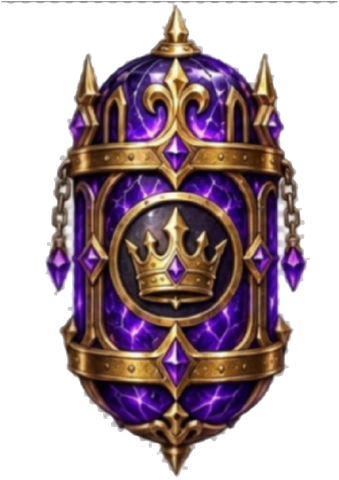
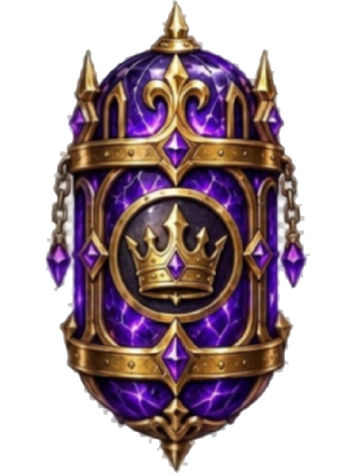
Сундуки без чёрного фона и меньше, рабочая ссылка в «!апка»
Команда «!апка»:
- ссылка больше не берётся из захардкоженного t.me/<старый_бот>/<short_name>;
  @username подставляется из get_me() при старте (плюс env BOT_USERNAME),
  short_name — из MINIAPP_SHORT_NAME (по умолчанию Auragame),
  полный override — MINIAPP_URL;
- в личке кнопка теперь web_app с адресом aura-api (WEBAPP_URL): Telegram
  сам открывает Mini App и передаёт initData, короткое имя не участвует,
  поэтому ссылка не может «сломаться»;
- вторая кнопка — прямая ссылка для пересылки другу; в группах (там
  web_app запрещён) остаётся только она, и она же печатается в тексте;
- в лог при старте пишется готовая ссылка, чтобы было видно, что уходит.

Сундуки (Mini App):
- chest_normal.jpg и chest_gold.jpg (чёрный прямоугольник) заменены на
  chest_normal.png / chest_gold.png с прозрачным фоном: фон вырезан по
  силуэту, тёмное дерево осталось непрозрачным, цвет не пережат;
- картинка уменьшена: max-height 170px, max-width 70% вместо 100%
  ширины карточки — сундук больше не занимает пол-экрана;
- обновлены ссылки в index.html (cache-busting ?v=2), style.css?v=aura-5,
  белый список корневых файлов в api.py.

Линия:
- у карточки «Уникальная капсула» сверху торчал серый обрезок линии
  (первые 4 строки PNG) — обрезан;
- пунктирная рамка у слота предмета в «Апгрейде» заменена на тонкую
  сплошную (это и была «линия» вокруг превью).

Попутно:
- у inv_emerald.png и inv_malachite.png был зашит чёрный фон (в инвентаре
[…]

diff --git a/miniapp/style.css b/miniapp/style.css
@@ -144,10 +144,11 @@ main { padding: 0 16px; }
 /* ================= СУНДУКИ ================= */
 .chest-container { display: flex; flex-direction: column; gap: 15px; }
 .chest-card { background: var(--card); padding: 16px; border-radius: 18px; text-align: center; border: 1px solid #333; }
-.chest-art { width: 100%; border-radius: 14px; overflow: hidden; margin-bottom: 12px; background: transparent; display: flex; align-items: center; justify-content: center; }
-/* contain + max-height: сундук нарисован с полями, обрезать его нельзя.
-   Фиксированные 165px по высоте резали картинку по бокам/сверху. */
-.chest-art img { width: 100%; height: auto; max-height: 200px; object-fit: contain; display: block; }
+.chest-art { width: 100%; border-radius: 14px; overflow: hidden; margin-bottom: 10px; background: transparent; display: flex; align-items: center; justify-content: center; }
+/* Сундуки теперь PNG с прозрачным фоном (чёрный прямоугольник убран),
+   поэтому картинку не растягиваем на всю карточку — она заметно меньше
+   и «плавает» на фоне карточки. contain обязателен: обрезать нельзя. */
+.chest-art img { width: auto; height: auto; max-width: 70%; max-height: 170px; object-fit: contain; display: block; filter: drop-shadow(0 6px 14px rgba(0, 0, 0, 0.55)); }
 .chest-card h3 { font-size: 18px; font-weight: 800; margin-bottom: 5px; }
 .chest-card p { font-size: 12px; color: var(--text-muted); margin-bottom: 15px; }
 .chest-card .action-btn { margin-bottom: 0; }
@@ -343,7 +344,7 @@ main { padding: 0 16px; }
 .up-panel-center { align-items: center; justify-content: flex-start; }
 
 /* --- левая панель --- */
-.up-slot { border-radius: 16px; border: 1px dashed rgba(59, 130, 246, 0.35); background: radial-gradient(circle at 50% 20%, rgba(59, 130, 246, 0.16), rgba(10, 15, 23, 0.75) 72%); padding: 18px 10px; text-align: center; }
+.up-slot { border-radius: 16px; border: 1px solid rgba(59, 130, 246, 0.22); background: radial-gradient(circle at 50% 20%, rgba(59, 130, 246, 0.16), rgba(10, 15, 23, 0.75) 72%); padding: 18px 10px; text-align: center; }
 .up-slot-icon { font-size: 42px; line-height: 1; filter: drop-shadow(0 0 16px rgba(59, 130, 246, 0.55)); }
 .up-slot-name { margin-top: 8px; font-size: 13px; font-weight: 800; color: #dbe7f7; }
 .up-slot-value { margin-top: 3px; font-size: 12px; font-weight: 900; color: #58a6ff; font-variant-numeric: tabular-nums; }

diff --git a/miniapp/index.html b/miniapp/index.html
@@ -4,7 +4,7 @@
     <meta charset="UTF-8">
     <meta name="viewport" content="width=device-width, initial-scale=1.0, user-scalable=no">
     <title>AURA GAME</title>
-    <link rel="stylesheet" href="style.css?v=aura-4">
+    <link rel="stylesheet" href="style.css?v=aura-5">
     <script src="https://telegram.org/js/telegram-web-app.js"></script>
 </head>
 <body>
@@ -116,13 +116,13 @@
             </div>
             <div class="chest-container" id="chest-buttons">
                 <div class="chest-card">
-                    <div class="chest-art"><img id="normal-chest-icon" src="chest_normal.jpg" alt="Обычный сундук" loading="lazy"></div>
+                    <div class="chest-art"><img id="normal-chest-icon" src="chest_normal.png?v=2" alt="Обычный сундук" loading="lazy"></div>
                     <h3>Обычный сундук</h3>
                     <p>Бесплатно, раз в 5 часов</p>
                     <button class="action-btn" id="normal-chest-btn" onclick="openChest('normal')">Открыть (Бесплатно)</button>
                 </div>
                 <div class="chest-card">
-                    <div class="chest-art"><img id="gold-chest-icon" src="chest_gold.jpg" alt="Золотой сундук" loading="lazy"></div>
+                    <div class="chest-art"><img id="gold-chest-icon" src="chest_gold.png?v=2" alt="Золотой сундук" loading="lazy"></div>
                     <h3>Золотой сундук</h3>
                     <p>Открывается золотым ключом 🔑</p>
                     <button class="action-btn" id="gold-chest-btn" onclick="openChest('gold')" style="background: #ffcc00; color: #000;">Открыть (Нужен ключ)</button>

diff --git a/bot.py b/bot.py
@@ -8,7 +8,7 @@ import json
 from types import SimpleNamespace
 from dotenv import load_dotenv
 from aiogram import Bot, Dispatcher, F, Router
-from aiogram.types import Message, CallbackQuery, InlineKeyboardMarkup, InlineKeyboardButton, FSInputFile
+from aiogram.types import Message, CallbackQuery, InlineKeyboardMarkup, InlineKeyboardButton, FSInputFile, WebAppInfo
 from aiogram.enums import ChatMemberStatus
 from aiogram.filters import StateFilter
 from aiogram.fsm.context import FSMContext
@@ -62,10 +62,32 @@ API_URL_CANDIDATES = [
 API_URL = (os.getenv("AURA_API_URL") or API_URL_CANDIDATES[0]).rstrip("/")
 # Именно этот адрес должен быть прописан в BotFather → Configure Mini App.
 WEBAPP_URL = os.getenv("AURA_WEBAPP_URL") or f"{API_URL}/miniapp/"
-# Внутри Telegram мини-аппка открывается прямой ссылкой t.me/<бот>/<short_name>:
-# по «голому» https-адресу WebView не передаёт initData и авторизация ломается.
-# short_name задаётся в BotFather → Configure Mini App, а сам URL там = WEBAPP_URL.
-MINIAPP_URL = os.getenv("MINIAPP_URL") or "https://t.me/Auragameplay_bot/Auragame"
+# Внутри Telegram мини-аппку открывают двумя способами:
+#   1) кнопкой с web_app (WebAppInfo) — работает в личке и не зависит от short_name;
+#   2) прямой ссылкой t.me/<бот>/<short_name> — нужна, чтобы переслать другу.
+# Внутри ссылки (2) имя бота пишется вручную и часто устаревает: бот переименован,
+# short_name в BotFather другой — и команда «апка» даёт «не рабочую ссылку».
+# Поэтому username берём у Telegram (get_me) при старте, а short_name — из env
+# MINIAPP_SHORT_NAME (по умолчанию Auragame, как в BotFather → Configure Mini App).
+MINIAPP_SHORT_NAME = (os.getenv("MINIAPP_SHORT_NAME") or "Auragame").strip().strip("/")
+BOT_USERNAME = (os.getenv("BOT_USERNAME") or "").strip().lstrip("@")
+# Явный override: если ссылку нужно жёстко зафиксировать.
+MINIAPP_URL = os.getenv("MINIAPP_URL") or ""
+
+
+def miniapp_direct_url() -> str:
+    """Прямая ссылка t.me/<бот>/<short_name> для пересылки друзьям.
+
+    Строится из НАСТОЯЩЕГО @username (его отдаёт Telegram), поэтому
+    переименование бота больше не ломает команду «апка».
+    """
+    override = (os.getenv("MINIAPP_URL") or MINIAPP_URL or "").strip()
+    if override:
+        return override
+    if BOT_USERNAME:
+        return f"https://t.me/{BOT_USERNAME}/{MINIAPP_SHORT_NAME}"
+    return f"https://t.me/{MINIAPP_SHORT_NAME}"
+
 CHALLENGE_TIMEOUT = 60
 COIN_DROP_CHANCE = 0.005
 COIN_DROP_MIN = 1
@@ -1159,17 +1181,35 @@ async def cmd_tag(message: Message):
 
 @dp.message(F.text.func(lambda t: strip_prefix(t).lower().startswith("апка")))
 async def cmd_apka(message: Message):
-    # Ссылка берётся из MINIAPP_URL (BotFather → прямой линк на мини-апп),
-    # а сам мини-апп раздаёт сервис aura-api: WEBAPP_URL.
+    """Ссылка на Mini App.
+
+    Раньше кнопка вела на захардкоженный t.me/<старый_бот>/<short_name>: стоило
+    переименовать бота или указать в BotFather другой short_name — и Telegram
+    открывал пустую страницу («ссылка не рабочая»). Теперь:
+      • в личке — кнопка web_app с адресом aura-api (WEBAPP_URL): Telegram сам
+        открывает приложение и передаёт initData, короткое имя не нужно вовсе;
+      • плюс отдельная кнопка с прямой ссылкой t.me/<текущий_бот>/<short_name>
+        (username спрашиваем у Telegram), чтобы переслать другу;
+      • если что-то пошло не так — в тексте есть и обычная https-ссылка.
+    """
+    direct = miniapp_direct_url()
+    rows = []
+    if message.chat.type == "private":
+        rows.append([InlineKeyboardButton(text="🎮 Открыть AURA GAME", web_app=WebAppInfo(url=WEBAPP_URL))])
+        rows.append([InlineKeyboardButton(text="🔗 Ссылка для друзей", url=direct)])
+    else:
+        # В группах Telegram запрещает кнопки web_app — только обычная ссылка.
+        rows.append([InlineKeyboardButton(text="🎮 Открыть AURA GAME", url=direct)])
+
     text = (
         "📱 <b>Наше Mini App!</b>\n\n"
         "🎮 Заходи в наше казино прямо из Telegram:\n"
-        f"👉 <a href='{MINIAPP_URL}'>{MINIAPP_URL}</a>\n\n"
+        f"👉 <a href='{WEBAPP_URL}'>{WEBAPP_URL}</a>\n\n"
         "💰 Там тебя ждут сундуки, рулетка, мины и краш с общим балансом!"
     )
-    kb = InlineKeyboardMarkup(inline_keyboard=[[
-        InlineKeyboardButton(text="🎮 Открыть AURA GAME", url=MINIAPP_URL)
-    ]])
+    if message.chat.type != "private":
+        text += f"\n\n🔗 Прямая ссылка: <a href='{direct}'>{direct}</a>"
+    kb = InlineKeyboardMarkup(inline_keyboard=rows)
     await message.answer(text, parse_mode="HTML", reply_markup=kb, disable_web_page_preview=True)
 
 
@@ -1371,10 +1411,16 @@ async def start_fake_website():
 
 
 async def main():
+    global BOT_USERNAME
     await start_fake_website()
     await resolve_api_url()          # выправляем адрес aura-api до первого запроса
     me = await bot.get_me()
-    logger.info(f"🤖 Бот: @{me.username}")
+    if me.username:
+        # Настоящее имя бота: из него строится прямая ссылка на Mini App,
+        # поэтому «апка» больше не зависит от устаревшей константы в коде.
+        BOT_USERNAME = me.username
+    logger.info(f"🤖 Бот: @{me.username} | Mini App: {WEBAPP_URL}")
+    logger.info(f"🔗 Прямая ссылка Mini App: {miniapp_direct_url()}")
     await dp.start_polling(bot)
 
 

diff --git a/api.py b/api.py
@@ -70,7 +70,7 @@ async def root_redirect():
 # раньше это был голый «Not Found», теперь редирект в реальную папку статики.
 ROOT_STATIC_FILES = {
     "index.html", "app.js", "style.css", "coin.png",
-    "chest_normal.jpg", "chest_gold.jpg", "avatar_placeholder.svg",
+    "chest_normal.png", "chest_gold.png", "avatar_placeholder.svg",
 }
 
 

diff --git a/DEPLOY.md b/DEPLOY.md
@@ -51,16 +51,31 @@ CORS открыт (`allow_origins=["*"]`): в WebView Telegram Origin бывае
   - `SUPABASE_KEY`
   - (необязательно) `AURA_API_URL` — по умолчанию `https://aura-api-mptt.onrender.com`
   - (необязательно) `AURA_WEBAPP_URL` — по умолчанию `AURA_API_URL + "/miniapp/"`
-  - (необязательно) `MINIAPP_URL` — прямая ссылка `t.me/<бот>/<short_name>`
+  - (необязательно) `MINIAPP_SHORT_NAME` — короткое имя из BotFather (по умолчанию `Auragame`)
+  - (необязательно) `MINIAPP_URL` — если нужно жёстко задать прямую ссылку `t.me/<бот>/<short_name>`
+  - (необязательно) `BOT_USERNAME` — имя бота без `@`; по умолчанию берётся у Telegram при старте
   - Render сам добавляет `PORT` — его слушает `start_fake_website`
 
 ## 3. BotFather
 
 `Configure Mini App` → **Web App URL** должен быть
 `https://aura-api-mptt.onrender.com/miniapp/` (то есть `WEBAPP_URL` из `bot.py`).
-`short_name` (`Auragame`) даёт ссылку `https://t.me/Auragameplay_bot/Auragame` —
-именно она уходит игрокам: по «голому» https-адресу Telegram не передаёт
-`initData`, и авторизация в Mini App ломается.
+`short_name` (`Auragame`) даёт прямую ссылку `https://t.me/<ваш_бот>/Auragame`.
+
+**Как бот формирует ссылку в `!апка`:**
+
+1. В личке — кнопка `web_app` с адресом `WEBAPP_URL` (это Mini App на aura-api).
+   Telegram открывает приложение сам и передаёт `initData`, короткое имя тут не
+   участвует — поэтому кнопка работает даже если `short_name` в BotFather другой.
+2. Вторая кнопка — прямая ссылка `t.me/<бот>/<short_name>` для пересылки другу.
+   `<бот>` подставляется из `get_me()` при старте, а не из константы в коде:
+   после переименования бота ссылка не ломается.
+3. В группе (Telegram запрещает там `web_app`) остаётся только эта прямая ссылка.
+
+Если в BotFather `short_name` не `Auragame` — задайте `MINIAPP_SHORT_NAME` в
+сервисе dan4Bot или `MINIAPP_URL` целиком; перезапуск бота применит значение.
+Имя бота обязано совпадать с реальным `@username` — иначе `t.me` покажет пустую
+страницу (про это в логах: `🔗 Прямая ссылка Mini App: …`).
 
 ## 3.1. Если видите «Not Found»
 
